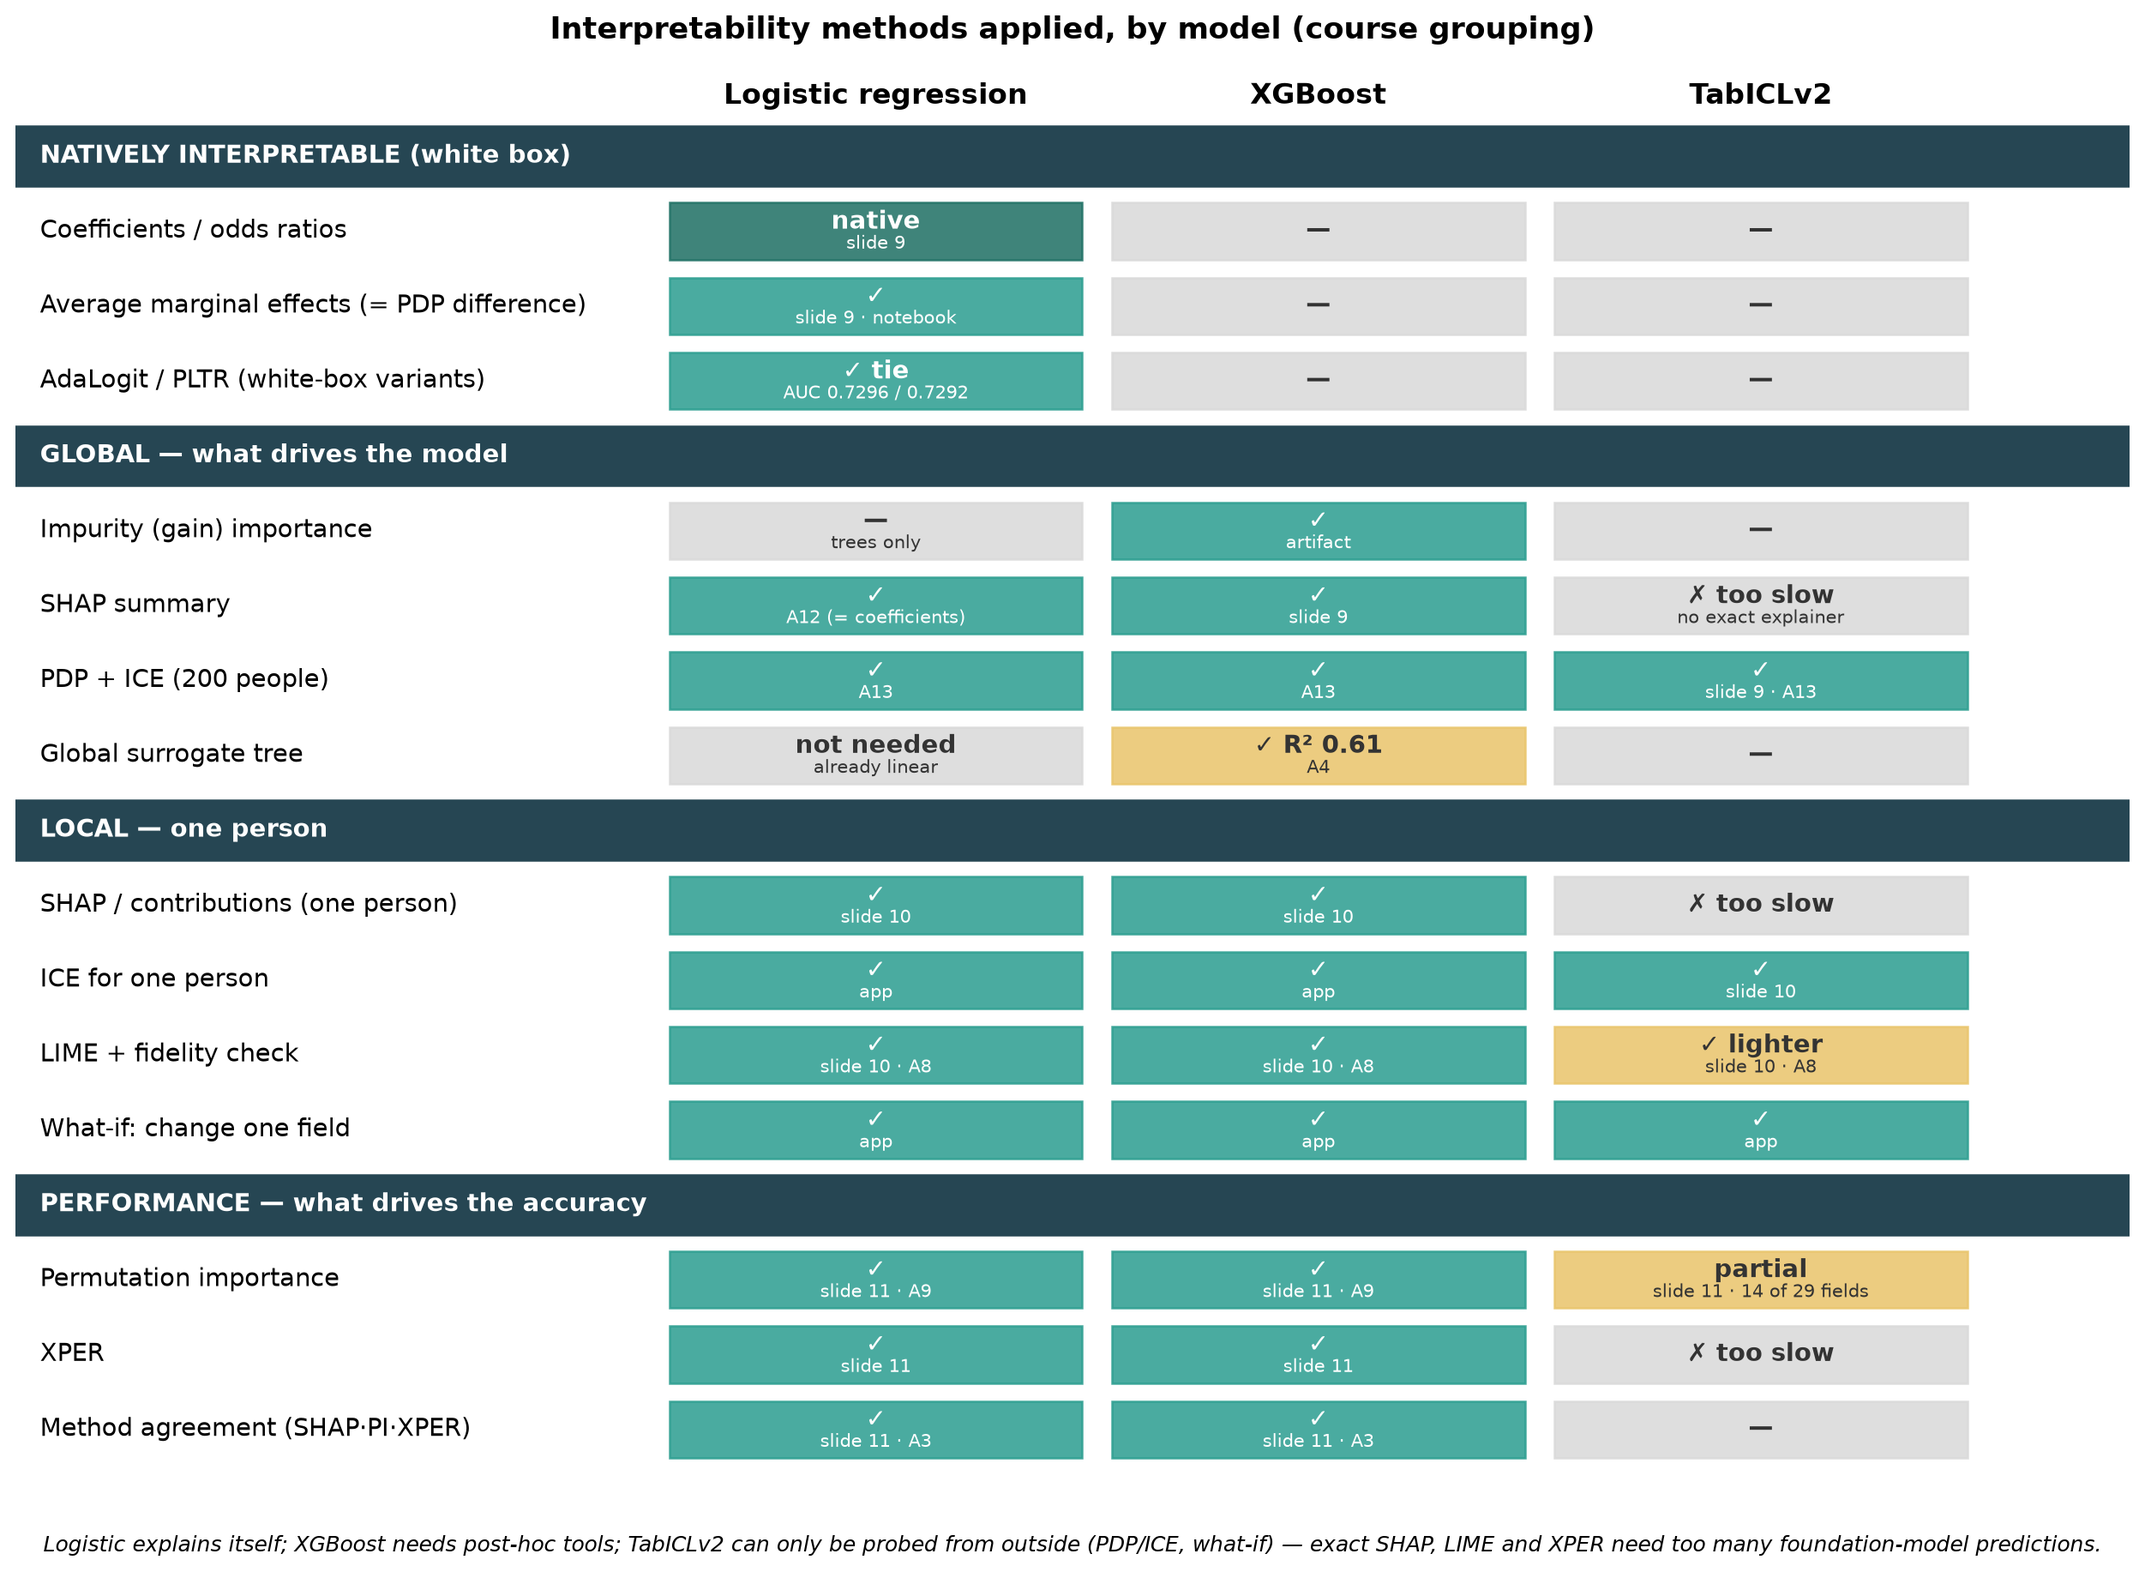
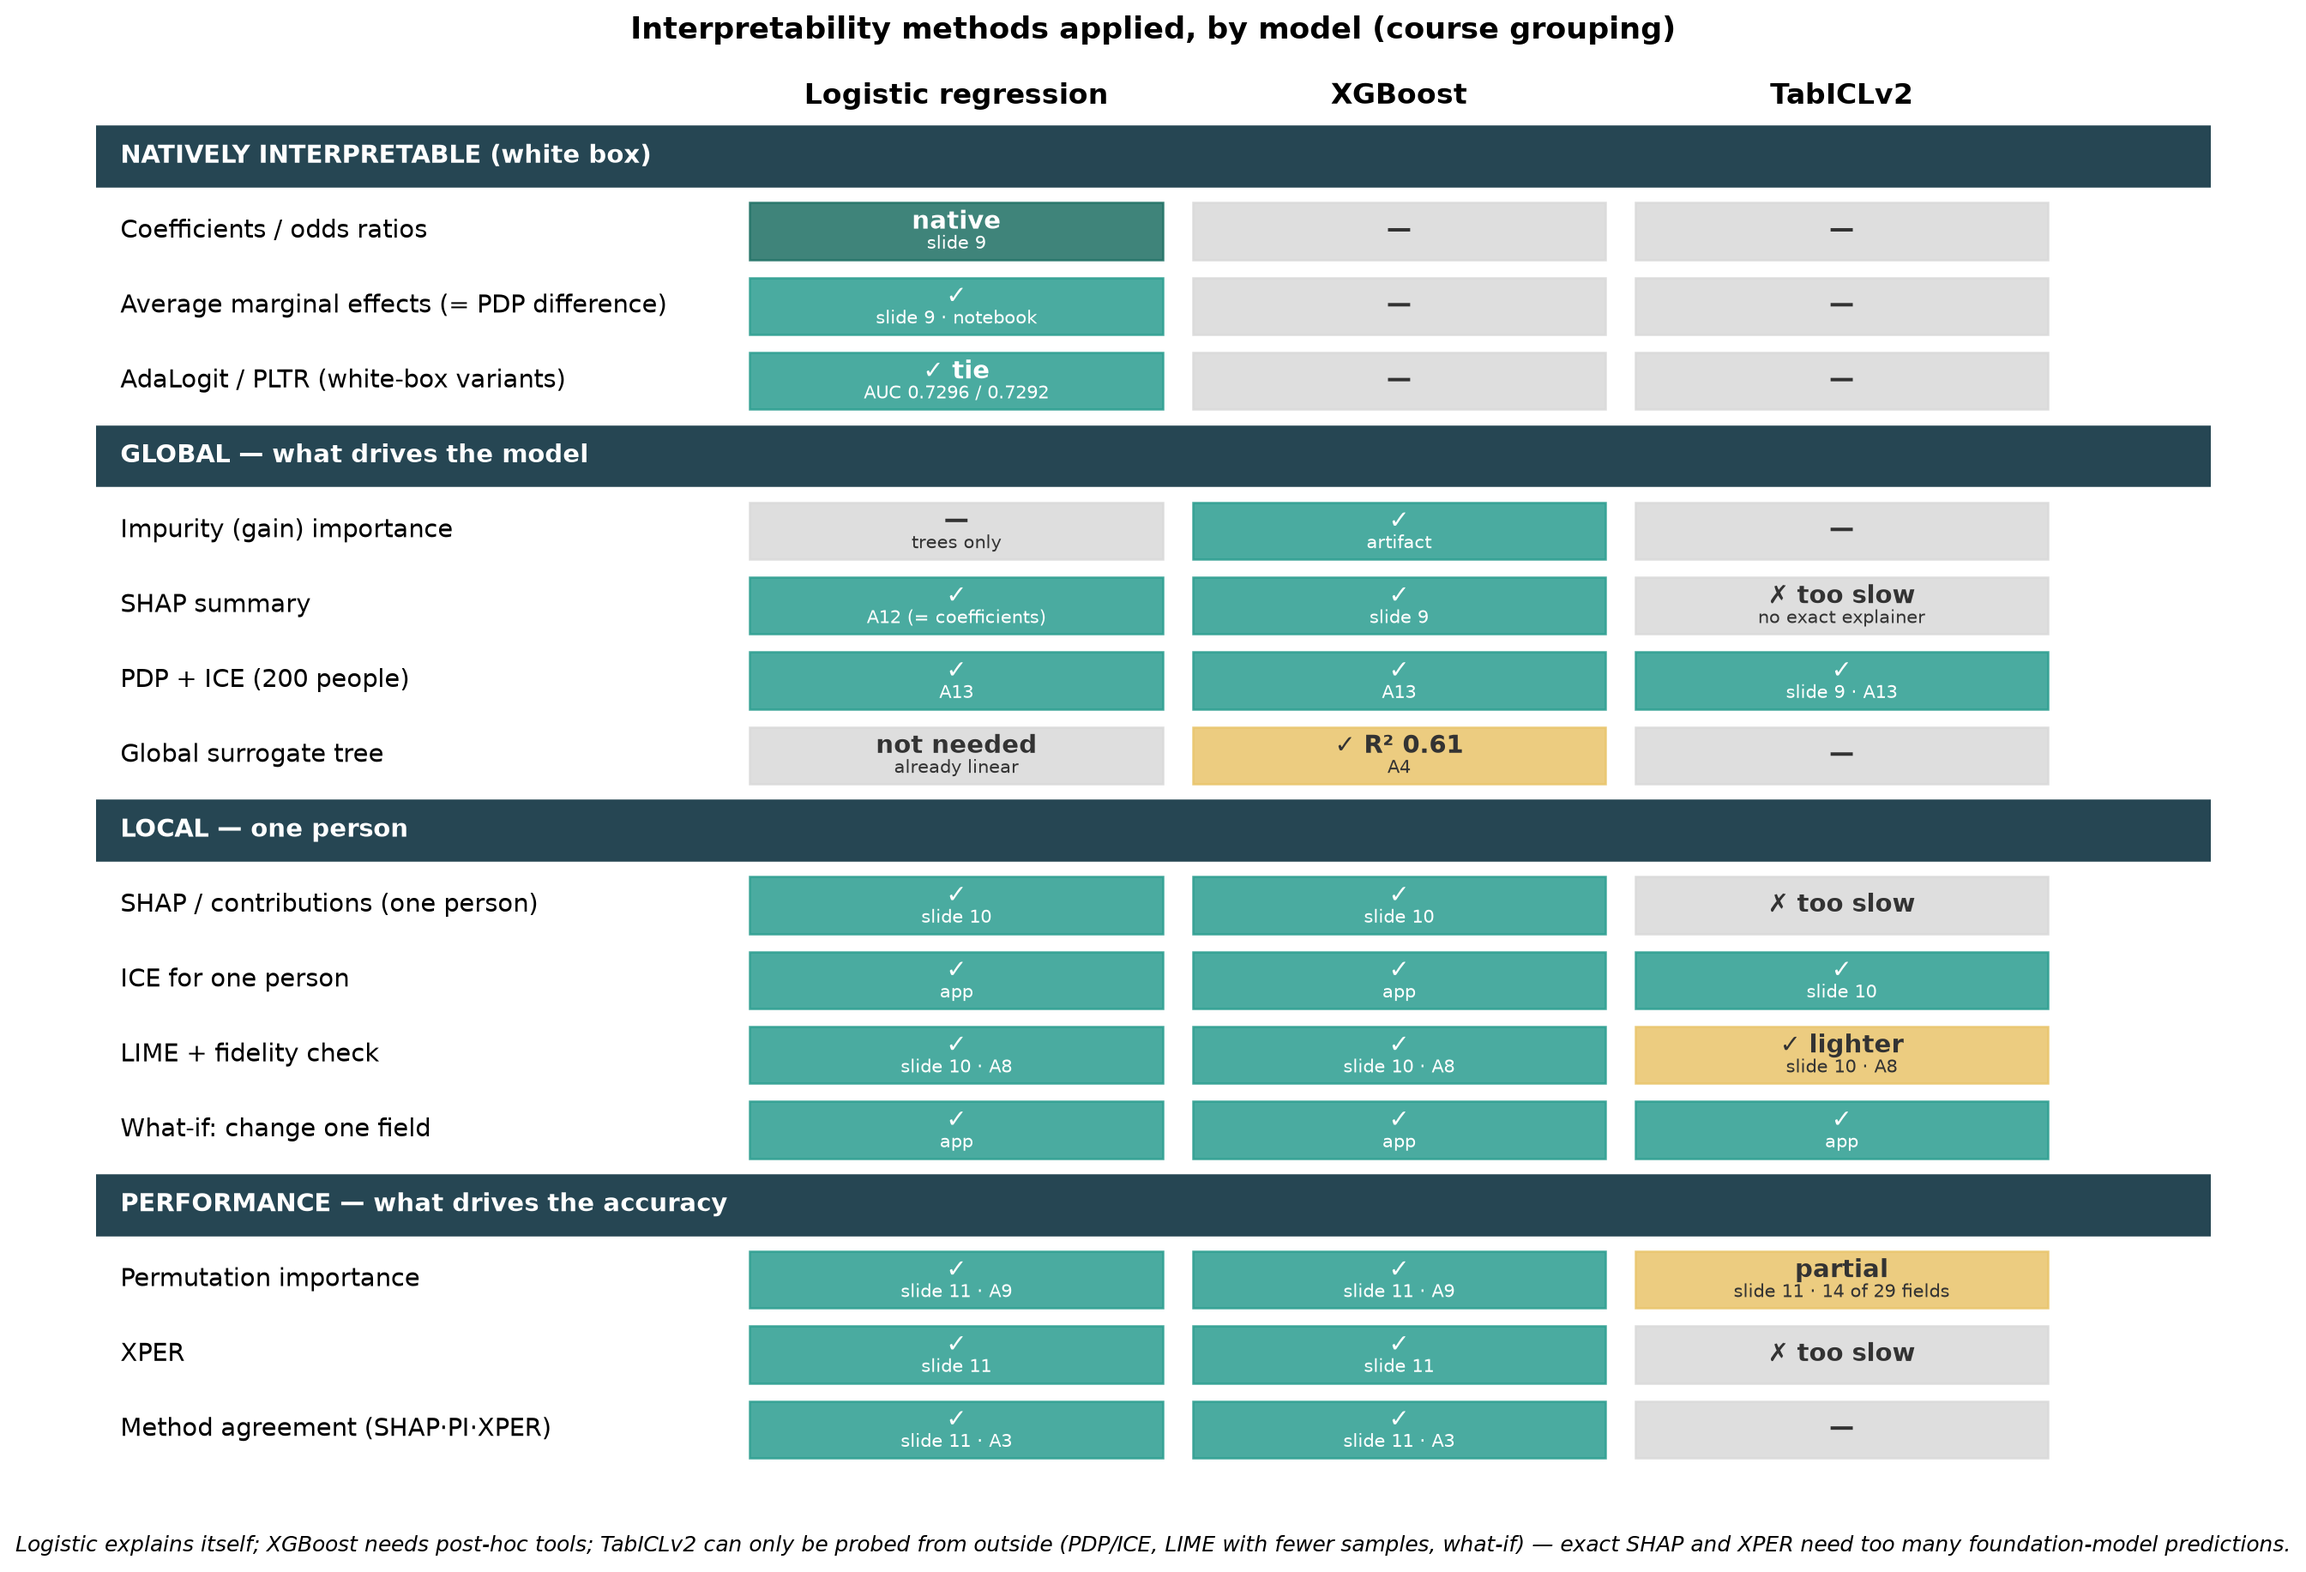
Method matrix footnote: TabICL does have LIME, with fewer samples

diff --git a/scripts/deck_figures.py b/scripts/deck_figures.py
@@ -242,7 +242,7 @@ def interpretability_matrix() -> None:
     ax.set_title("Interpretability methods applied, by model (course grouping)",
                  fontsize=14, fontweight="bold", pad=6)
     fig.text(0.5, 0.01, "Logistic explains itself; XGBoost needs post-hoc tools; TabICLv2 can only be probed from outside "
-             "(PDP/ICE, what-if) — exact SHAP, LIME and XPER need too many foundation-model predictions.",
+             "(PDP/ICE, LIME with fewer samples, what-if) — exact SHAP and XPER need too many foundation-model predictions.",
              ha="center", fontsize=10, style="italic")
     fig.tight_layout(rect=[0, 0.03, 1, 1])
     fig.savefig(FIGURE_DIR / "interpretability_matrix.png", dpi=180, bbox_inches="tight")
